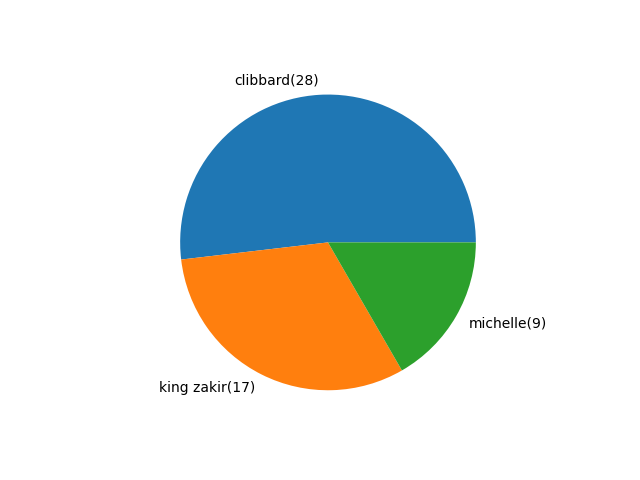
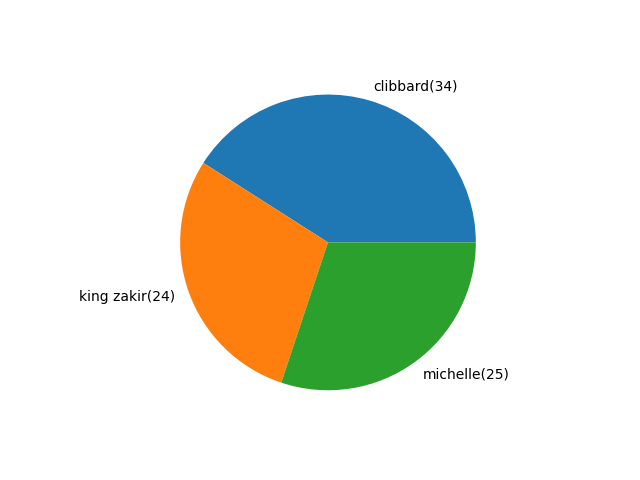
fixed graph results page

diff --git a/awards/views.py b/awards/views.py
@@ -8,6 +8,7 @@ import numpy as np
 import os
 from . import static
 from django.templatetags.static import static
+import glob
 # Create your views here.
 
 def awards(request):
@@ -48,8 +49,6 @@ def vote(request, award_id):
 def results(request, award_id):
     award = get_object_or_404(Award, pk=award_id)
     OptionListing = list(award.options_set.all())
-    print(static('awards/img/graphs/my_plot.png'))
-    print("hello")
     # try:
     #     print(static('awards/img/graphs/my_plot.png'))
     #     midyearsotbawards/awards/static
@@ -63,14 +62,18 @@ def results(request, award_id):
     #     z = np.array(votes)
     #     plt.pie(z, labels = mylabels)
     #     plt.savefig(static('awards/img/graphs/my_plot.png'))
-
+    files = glob.glob('awards/static/awards/img/graphs/*')
+    for f in files:
+        os.remove(f)
     votes=[]
     mylabels = []
     for option in OptionListing:
         votes+=[option.votes]
         mylabels+=["{0}({1})".format(option, option.votes)]
     z = np.array(votes)
+    plt.clf()
     plt.pie(z, labels = mylabels)
+    files = glob.glob('awards/static/awards/img/graphs/*')
     plt.savefig('awards/static/awards/img/graphs/my_plot.png')
     return render(request, 'awards/results.html', {'awards': Award, 'OptionListing': OptionListing})
 
